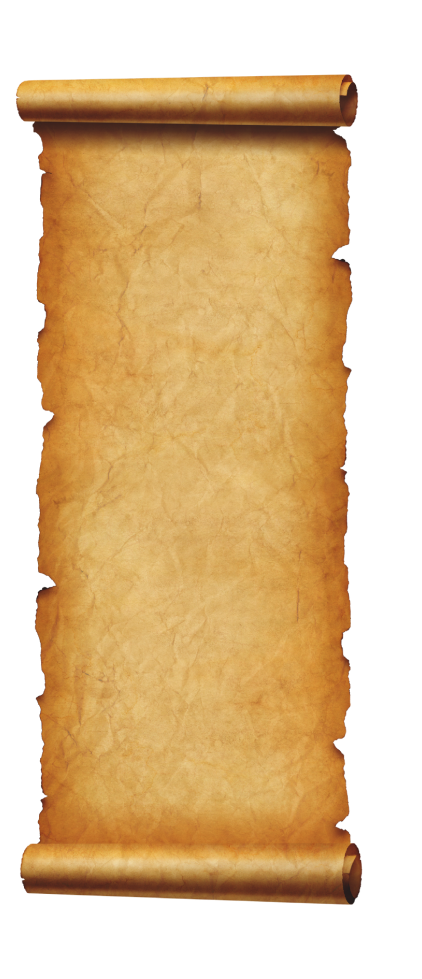
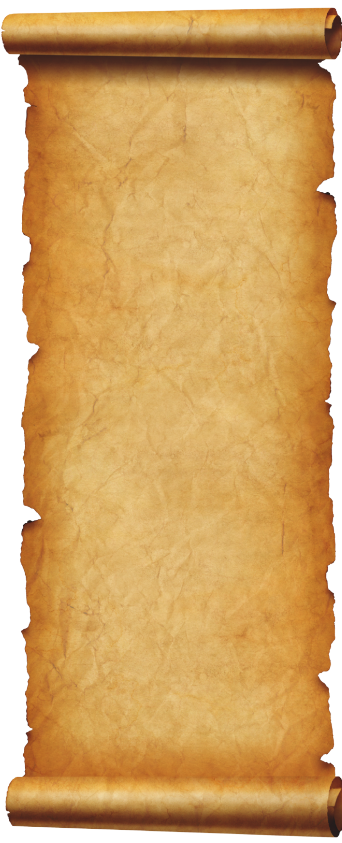
push meth

diff --git a/src/main/resources/org/awaludin/udinmaunikah/styles.css b/src/main/resources/org/awaludin/udinmaunikah/styles.css
@@ -25,3 +25,7 @@
 .text-field{
     -fx-background-color: transparent;
 }
+
+.transparent{
+    -fx-background-color: rgba(0,0,0,0);
+}

diff --git a/src/main/java/org/awaludin/udinmaunikah/CardBrain.java b/src/main/java/org/awaludin/udinmaunikah/CardBrain.java
@@ -109,8 +109,10 @@ public class CardBrain {
 
                         if (this.gameObject instanceof Animal){
                             dlgAnimal(isiKartu);
-                        } else{
+                        } else if (this.gameObject instanceof Plant) {
                             dlgPlant(isiKartu);
+                        } else {
+                            dlgProduct(isiKartu);
                         }
                     } catch (IOException e) {
                         throw new RuntimeException(e);
@@ -207,6 +209,28 @@ public class CardBrain {
                 stage.initStyle(StageStyle.TRANSPARENT);
                 scene.setFill(Color.TRANSPARENT);
                 stage.setScene(scene);
+                stage.show();
+            } catch (Exception e) {
+                System.out.println(e.getMessage());
+            }
+        }
+
+        public void dlgProduct(Card isiKartu) throws IOException {
+            try{
+                FXMLLoader dlgProduct = new FXMLLoader(getClass().getResource("Product.fxml"));
+                Parent root = dlgProduct.load();
+
+                ProductController productController = dlgProduct.getController();
+
+                productController.setProduct(isiKartu);
+
+                Stage stage = new Stage();
+                Scene scene = new Scene(root);
+                stage.initModality(Modality.APPLICATION_MODAL);
+                stage.initStyle(StageStyle.TRANSPARENT);
+                scene.setFill(Color.TRANSPARENT);
+                stage.setScene(scene);
+                stage.setAlwaysOnTop(true);
                 stage.show();
             } catch (Exception e) {
                 System.out.println(e.getMessage());

diff --git a/src/main/java/org/awaludin/udinmaunikah/ProductController.java b/src/main/java/org/awaludin/udinmaunikah/ProductController.java
@@ -1,4 +1,66 @@
 package org.awaludin.udinmaunikah;
 
+
+import javafx.fxml.FXML;
+import javafx.scene.text.Text;
+import javafx.scene.Node;
+import javafx.scene.control.Label;
+import javafx.scene.image.Image;
+import javafx.scene.image.ImageView;
+import javafx.scene.input.MouseEvent;
+import javafx.stage.Stage;
+import org.awaludin.udinmaunikah.Programming.Animal;
+import org.awaludin.udinmaunikah.Programming.Card;
+import org.awaludin.udinmaunikah.Programming.GameObject;
+import org.awaludin.udinmaunikah.Programming.Product;
+
+import java.io.IOException;
+
 public class ProductController {
+
+    @FXML
+    private Label harga;
+
+    @FXML
+    private Label weightGain;
+
+    @FXML
+    private Text name;
+
+    @FXML
+    private ImageView imag;
+
+    @FXML
+    void closeWindow(MouseEvent event) {
+        Stage stage = (Stage) ((Node) event.getSource()).getScene().getWindow();
+        stage.close();
+    }
+
+    @FXML
+    public void setProduct(Card kartu) throws IOException {
+
+        GameObject gameObject = kartu.convertToGameObject();
+        Product product = (Product) gameObject;
+
+        String weightGain = String.valueOf(product.getWeight());
+        Image imag = new Image(String.valueOf(AnimalController.class.getResource(kartu.getImagePath())));
+        String name = product.GetName();
+        String harga = String.valueOf(product.getPrice());
+
+        this.weightGain.setText(weightGain);
+        this.imag.setImage(imag);
+        this.name.setText(name);
+        this.harga.setText(harga);
+    };
+
+    @FXML
+    void eat(MouseEvent event) {
+
+    }
+
+    @FXML
+    void sell(MouseEvent event) {
+
+    }
+
 }

diff --git a/src/main/java/org/awaludin/udinmaunikah/GameController.java b/src/main/java/org/awaludin/udinmaunikah/GameController.java
@@ -148,22 +148,27 @@ public class GameController implements Initializable {
 
     private Ladang ladang = new Ladang();
 
-    private GameManager gameManager = new GameManager();
-
 
     @Override
     public void initialize(URL location, ResourceBundle resources) {
         initializePlaceHolders();
-
+        CardBrain cardBrain = new CardBrain(petaks);
         GameManager.initGameManager();
         GameObjectFactory.Load();
         for (int i = 0; i < 2; i++) {
             GameManager.SetUpUtils.useDeck(i,"default");
         }
-        System.out.println("YAYYY");
 
-        shuffleMe();
+        GameObject test = GameObjectFactory.CreateGameObjectByID("HEWAN_002");
+        Card kartu = new Card(test);
 
+        CardBrain.cardObj ss = new CardBrain.cardObj(kartu, null, cardBrain);
+
+
+        ss.setLayoutY(300);
+        ss.setLayoutX(390);
+
+        mainBoo.getChildren().add(ss);
 
     }
 
@@ -171,8 +176,6 @@ public class GameController implements Initializable {
         GameManager.PlayerInterface.beginDraftPick();
         List<Card> cards;
         cards = GameManager.PlayerInterface.getDraftList();
-
-        System.out.println("BATMAN");
 
         try{
             FXMLLoader shuffle = new FXMLLoader(getClass().getResource("Shuffle.fxml"));
@@ -187,6 +190,9 @@ public class GameController implements Initializable {
             stage.initStyle(StageStyle.TRANSPARENT);
             scene.setFill(Color.TRANSPARENT);
             stage.initModality(Modality.APPLICATION_MODAL);
+
+            stage.setAlwaysOnTop(true);
+
             stage.setScene(scene);
 
             stage.show();

diff --git a/src/main/java/org/awaludin/udinmaunikah/ShuffleController.java b/src/main/java/org/awaludin/udinmaunikah/ShuffleController.java
@@ -1,13 +1,16 @@
 package org.awaludin.udinmaunikah;
 import javafx.fxml.FXML;
 import javafx.scene.Group;
+import javafx.scene.Node;
 import javafx.scene.image.Image;
 import javafx.scene.image.ImageView;
 import javafx.scene.input.MouseEvent;
 import javafx.scene.paint.Color;
 import javafx.scene.text.Font;
 import javafx.scene.text.Text;
+import javafx.stage.Stage;
 import org.awaludin.udinmaunikah.Programming.Card;
+import org.awaludin.udinmaunikah.Programming.GameManager;
 
 import java.io.IOException;
 import java.util.List;
@@ -77,11 +80,14 @@ public class ShuffleController {
 
     @FXML
     void closeWindow(MouseEvent event) {
-
+        Stage stage = (Stage) ((Node) event.getSource()).getScene().getWindow();
+        stage.close();
     }
 
     @FXML
     void shuffle(MouseEvent event) {
+        GameManager.PlayerInterface.beginDraftPick();
+
 
     }
 

diff --git a/src/main/java/org/awaludin/udinmaunikah/ShopController.java b/src/main/java/org/awaludin/udinmaunikah/ShopController.java
@@ -8,14 +8,11 @@ import javafx.stage.Stage;
 public class ShopController {
     public void goBack(MouseEvent mouseEvent) {
         try {
-            // Get the current stage
             Stage stage = (Stage) ((Node) mouseEvent.getSource()).getScene().getWindow();
 
-            // Get the previous scene from the stack
             Scene previousScene = Application.popScene();
 
             if (previousScene != null) {
-                // Set the previous scene
                 stage.setScene(previousScene);
                 stage.show();
             }

diff --git a/src/main/java/org/awaludin/udinmaunikah/AnimalController.java b/src/main/java/org/awaludin/udinmaunikah/AnimalController.java
@@ -50,4 +50,7 @@ public class AnimalController {
         this.imag.setImage(image);
         this.name.setText(name);
     };
+
+    public void panenMas(MouseEvent event) {
+    }
 }

diff --git a/src/main/java/org/awaludin/udinmaunikah/PlantController.java b/src/main/java/org/awaludin/udinmaunikah/PlantController.java
@@ -45,4 +45,6 @@ public class PlantController {
         this.name.setText(name);
     }
 
+    public void panenBugi(MouseEvent event) {
+    }
 }
